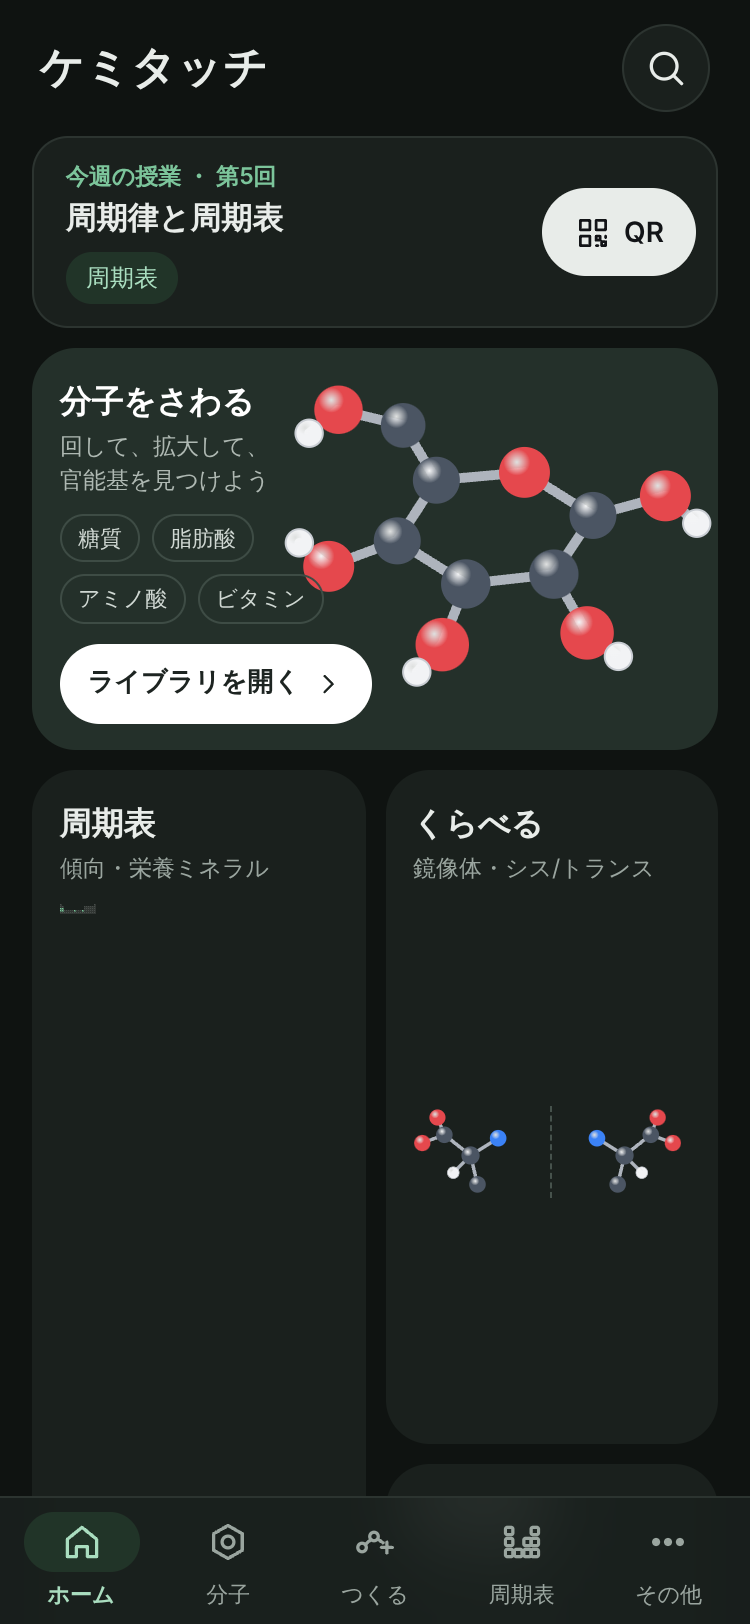
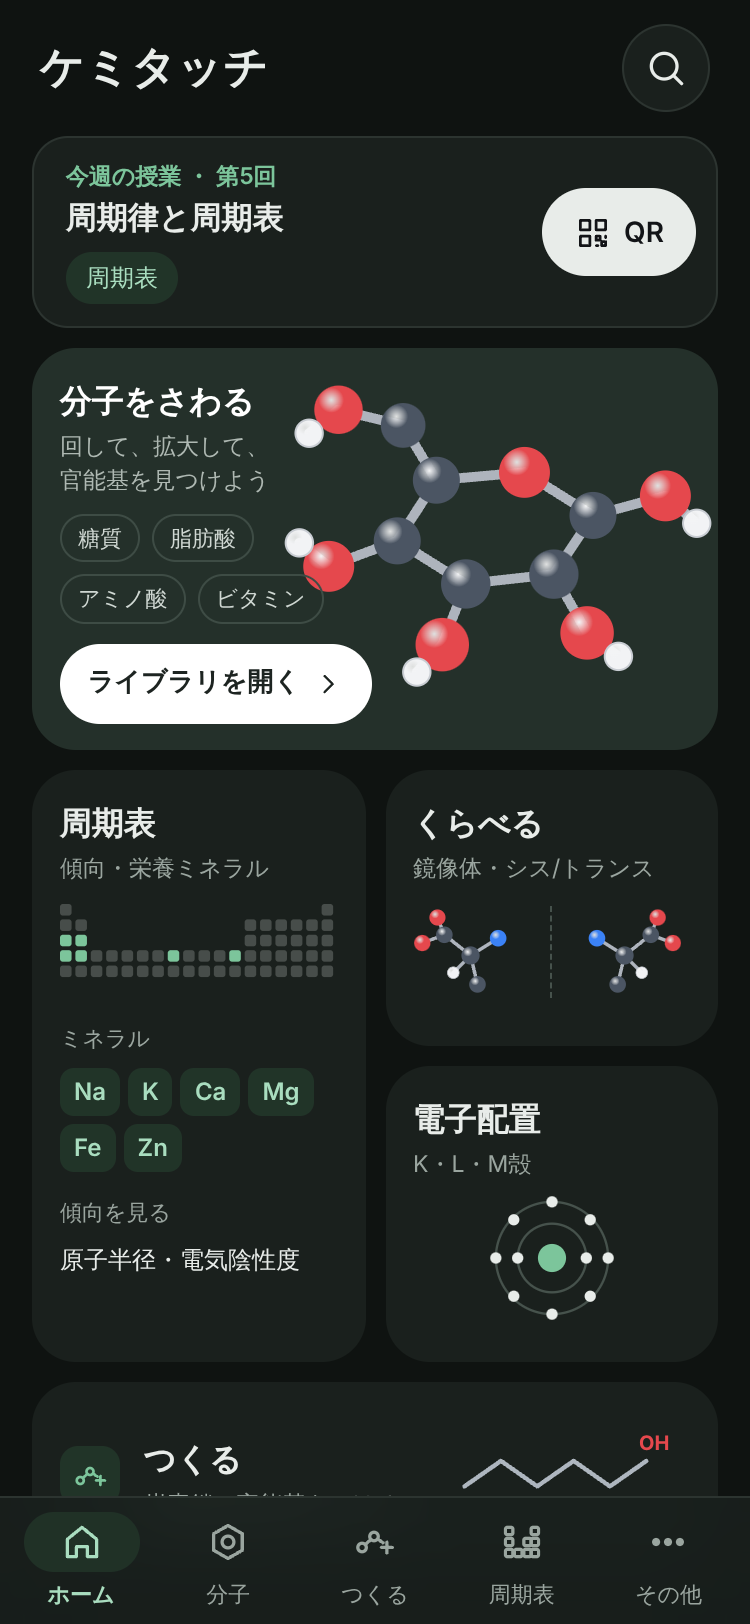
Fix the periodic-table tile on the home screen
The home mini table and the #/periodic grid both used the class `.pt`,
so the tile got the full periodic grid layout (696px tall, the mini
table squeezed to 18x5px). Rename the home one to `.home-pt` and move
its 10px top margin into the #/periodic `.pt` rule, so the periodic
screen looks exactly as before. Add an e2e check of the home tile sizes
and bump the service worker version.

Claude-Session: https://claude.ai/code/session_01Cd4eNEtp15GAA58g1qUpVT

diff --git a/css/app.css b/css/app.css
@@ -175,7 +175,7 @@ svg.i { width: 22px; height: 22px; fill: none; stroke: currentColor; stroke-widt
 .t.sq { min-height: 138px; }
 .t.tall { grid-row: span 2; min-height: 286px; justify-content: flex-start; }
 .t.wide { grid-column: span 2; min-height: 92px; flex-direction: row; align-items: center; gap: 12px; }
-.pt { color: var(--text); margin-top: 10px; }
+.home-pt { color: var(--text); margin-top: 10px; }
 .minerals { display: flex; flex-direction: column; gap: 6px; margin-top: 14px; }
 .minerals .lbl, .trend .lbl { font-size: 11px; color: var(--muted); }
 .minerals .els { display: flex; gap: 4px; flex-wrap: wrap; }
@@ -475,7 +475,7 @@ table.lic th, table.lic td { text-align: left; padding: 8px 6px; border-bottom: 
 .pt-controls { display: flex; flex-direction: column; gap: 2px; padding: 0 16px 6px; }
 .pt-controls .chips-row { padding: 4px 0; }
 .pt-scroll { overflow-x: auto; overscroll-behavior-x: contain; padding: 4px 16px 10px; -webkit-overflow-scrolling: touch; }
-.pt { --cell: 40px; display: grid; grid-template-columns: 18px repeat(18, var(--cell)); grid-template-rows: 18px repeat(7, calc(var(--cell) * 1.18)) 10px repeat(2, calc(var(--cell) * 1.18)); gap: 2px; width: max-content; }
+.pt { --cell: 40px; margin-top: 10px; display: grid; grid-template-columns: 18px repeat(18, var(--cell)); grid-template-rows: 18px repeat(7, calc(var(--cell) * 1.18)) 10px repeat(2, calc(var(--cell) * 1.18)); gap: 2px; width: max-content; }
 .pt-h { font-size: 10px; color: var(--muted); display: grid; place-items: center; }
 .pt-series { font-size: 9px; color: var(--muted); display: grid; place-items: center; border: 1px dashed var(--line); border-radius: 6px; text-align: center; line-height: 1.1; }
 .pt-el { position: relative; border-radius: 7px; display: flex; flex-direction: column; align-items: center; justify-content: center; color: var(--text); line-height: 1.05; overflow: hidden; }

diff --git a/js/views/home.js b/js/views/home.js
@@ -63,7 +63,7 @@ export async function renderHome({ el }) {
       </div>
       <a class="t tall" href="#/periodic">
         <div><h3>周期表</h3><p>傾向・栄養ミネラル</p></div>
-        <div class="pt">${miniTable([11, 19, 20, 12, 26, 30])}</div>
+        <div class="home-pt">${miniTable([11, 19, 20, 12, 26, 30])}</div>
         <div class="minerals">
           <div class="lbl">ミネラル</div>
           <div class="els"><b>Na</b><b>K</b><b>Ca</b><b>Mg</b><b>Fe</b><b>Zn</b></div>

diff --git a/sw.js b/sw.js
@@ -6,7 +6,7 @@
 //   - vendor/ (libraries, versioned folder names): cache first
 // The page sends the URLs it has already loaded (performance entries) so
 // that they are cached on the first visit too (see js/main.js).
-const VERSION = 'v5';
+const VERSION = 'v6';
 const APP_CACHE = `chemtouch-app-${VERSION}`;
 const LIB_CACHE = 'chemtouch-lib';
 const NETWORK_TIMEOUT_MS = 4000;
